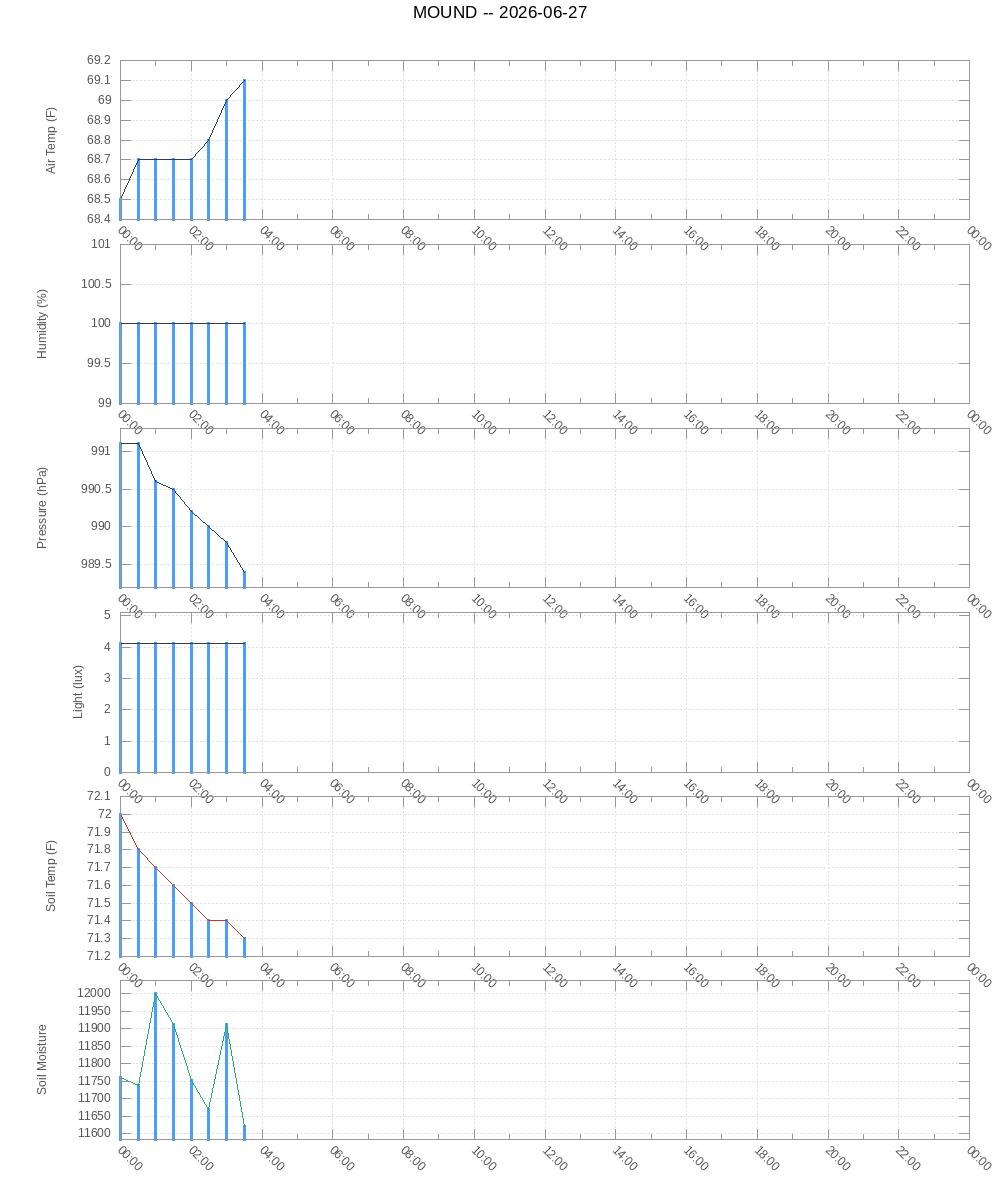
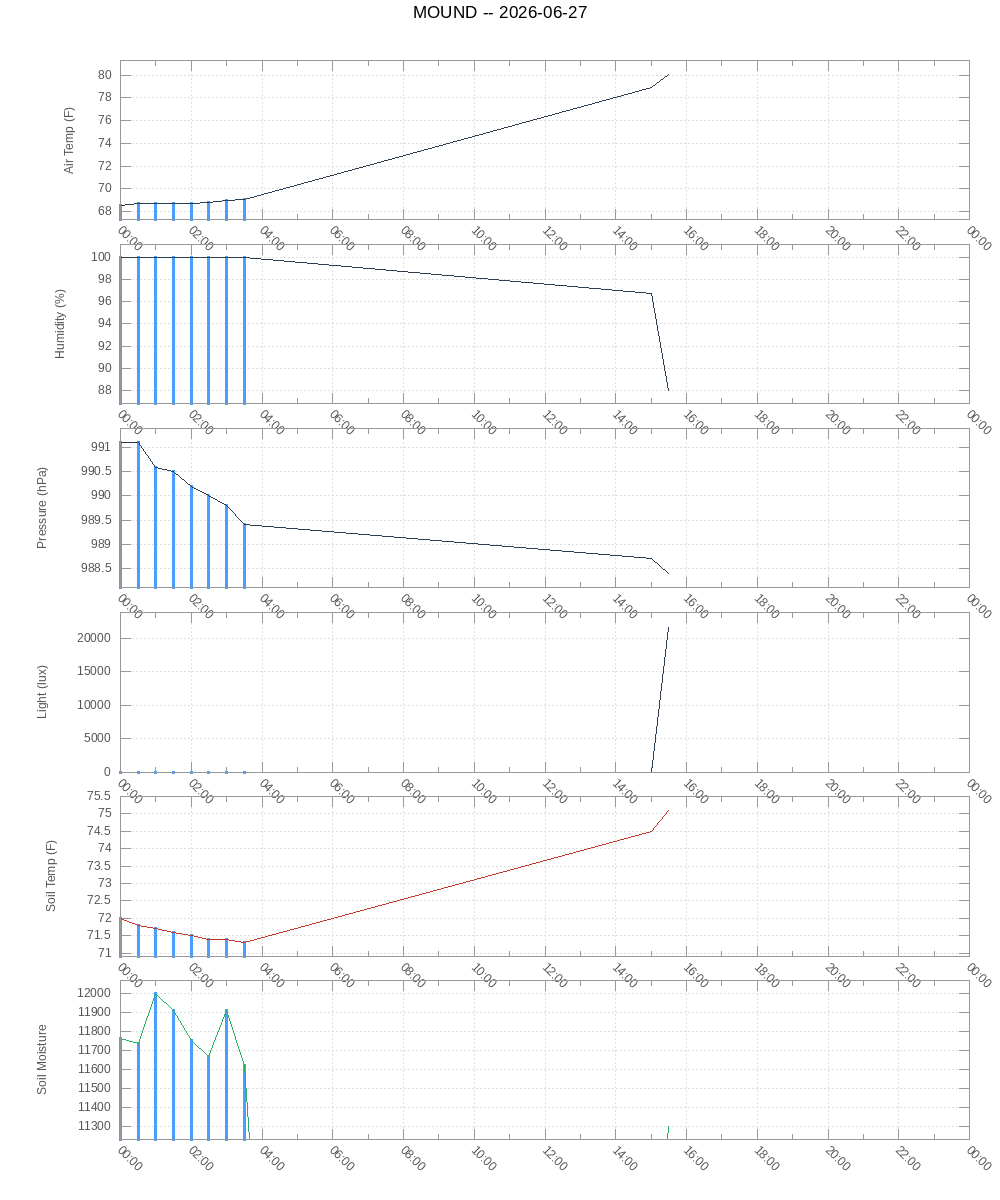
changed botpi to ramblinray and updated scripts

diff --git a/page/index.html b/page/index.html
@@ -38,16 +38,16 @@
 
       <hr style="border:none; border-top: 1px solid #ccc; margin: 1rem 0;">
 
-      <p><strong>Last reading:</strong> 2026-06-27 03:30:04</p>
+      <p><strong>Last reading:</strong> 2026-06-27 15:30:04</p>
 
       <table style="border:none; border-collapse:collapse; font-family:inherit; font-size:inherit; color:inherit;">
-        <tr><td style="padding: 0.2rem 1.5rem 0.2rem 0;">Air Temperature</td><td>69.1 F</td></tr>
-        <tr><td style="padding: 0.2rem 1.5rem 0.2rem 0;">Humidity</td><td>100.0%</td></tr>
-        <tr><td style="padding: 0.2rem 1.5rem 0.2rem 0;">Pressure</td><td>989.4 hPa</td></tr>
-        <tr><td style="padding: 0.2rem 1.5rem 0.2rem 0;">Light</td><td>4 lux</td></tr>
-        <tr><td style="padding: 0.2rem 1.5rem 0.2rem 0;">Soil Temperature</td><td>71.3 F</td></tr>
+        <tr><td style="padding: 0.2rem 1.5rem 0.2rem 0;">Air Temperature</td><td>80.1 F</td></tr>
+        <tr><td style="padding: 0.2rem 1.5rem 0.2rem 0;">Humidity</td><td>88.0%</td></tr>
+        <tr><td style="padding: 0.2rem 1.5rem 0.2rem 0;">Pressure</td><td>988.4 hPa</td></tr>
+        <tr><td style="padding: 0.2rem 1.5rem 0.2rem 0;">Light</td><td>21680 lux</td></tr>
+        <tr><td style="padding: 0.2rem 1.5rem 0.2rem 0;">Soil Temperature</td><td>75.1 F</td></tr>
         <tr><td style="padding: 0.2rem 1.5rem 0.2rem 0;">Soil Moisture</td><td>Saturated</td></tr>
-        <tr><td style="padding: 0.2rem 1.5rem 0.2rem 0;">Rain</td><td>Yes</td></tr>
+        <tr><td style="padding: 0.2rem 1.5rem 0.2rem 0;">Rain</td><td>No</td></tr>
       </table>
 
       <hr style="border:none; border-top: 1px solid #ccc; margin: 1rem 0;">

diff --git a/scripts/update_site.py b/scripts/update_site.py
@@ -32,7 +32,7 @@ if hour == 23 and minute >= 30:
             f.write(f"{datetime.now().strftime('%Y-%m-%d %H:%M:%S')}, DEBUG: today.png NOT FOUND\n")
     scp = subprocess.run([
         'scp', archive_path,
-        f'botpi@192.168.1.33:/var/www/html/mound/graphs/archive/{today}.png'
+        f'ramblinray@192.168.1.33:/var/www/html/mound/graphs/archive/{today}.png'
     ])
     with open(error_path, 'a') as f:
         f.write(f"{datetime.now().strftime('%Y-%m-%d %H:%M:%S')}, DEBUG: archive SCP returned {scp.returncode}\n")
@@ -40,13 +40,13 @@ if hour == 23 and minute >= 30:
 # -- Generate today's graph -------------------------------
 subprocess.run(['python', '/home/ramblinray/mound/scripts/generate_graphs.py'])
 
-# -- Upload today's graph to botpi ------------------------
+# -- Upload today's graph to ramblinray -------------------
 scp_result = subprocess.run([
     'scp', graph_out,
-    'botpi@192.168.1.33:/var/www/html/mound/graphs/today.png'
+    'ramblinray@192.168.1.33:/var/www/html/mound/graphs/today.png'
 ])
 if scp_result.returncode == 0:
-    print("Today's graph uploaded to botpi!")
+    print("Today's graph uploaded to ramblinray!")
 else:
     with open(error_path, 'a') as f:
         f.write(f"{datetime.now().strftime('%Y-%m-%d %H:%M:%S')}, ERROR: SCP failed\n")
@@ -58,17 +58,17 @@ subprocess.run(['python', '/home/ramblinray/mound/scripts/generate_page.py'])
 page_scp = subprocess.run([
     'scp',
     '/home/ramblinray/mound/page/index.html',
-    'botpi@192.168.1.33:/var/www/html/mound/index.html'
+    'ramblinray@192.168.1.33:/var/www/html/mound/index.html'
 ])
 if page_scp.returncode == 0:
-    print("Page uploaded to botpi!")
+    print("Page uploaded to ramblinray!")
 else:
     print("Page SCP failed!")
 
-# -- Upload latest.json to botpi --------------------------
+# -- Upload latest.json to ramblinray ---------------------
 subprocess.run([
     'scp',
     '/home/ramblinray/mound/data/latest.json',
-    'botpi@192.168.1.33:/var/www/html/mound/data/latest.json'
+    'ramblinray@192.168.1.33:/var/www/html/mound/data/latest.json'
 ])
-print("JSON uploaded to botpi!")
+print("JSON uploaded to ramblinray!")

diff --git a/README.md b/README.md
@@ -29,7 +29,7 @@ Data is published automatically to [yesteryearforever.xyz/mound](https://yestery
 | Raspberry Pi Camera Rev 1.3 | Photography | CSI ribbon |
 | Waveshare Solar Power Manager (D) | Power management | — |
 | Waveshare 6V 5W solar panel | Solar charging | — |
-| 3x 18650 Li-ion cells | Battery storage | — |
+| 4x 18650 Li-ion cells | Battery storage | — |
 
 ---
 